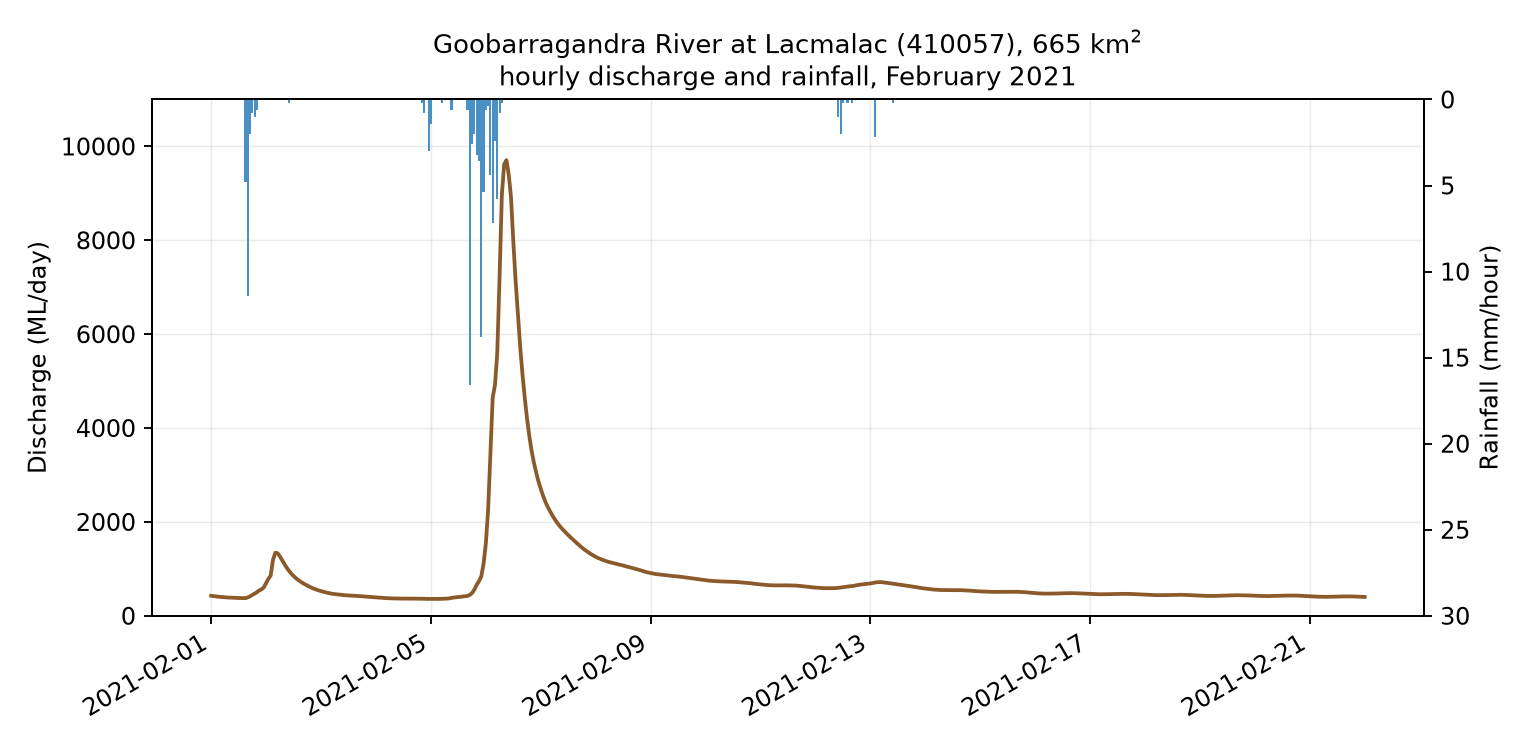
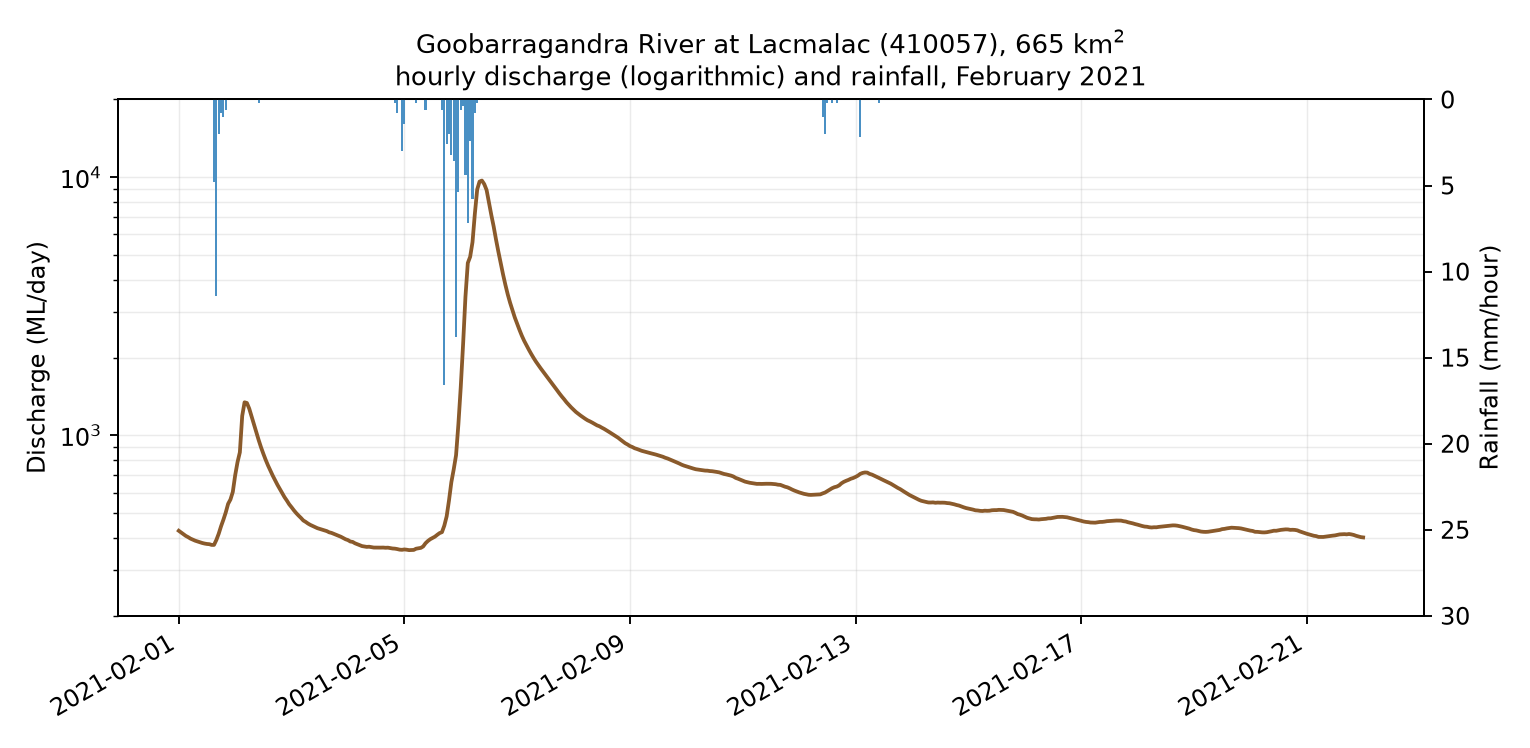
Plot the tutorial hydrograph on a logarithmic discharge axis
A log axis is the normal way to present a hydrograph, and the lecture says so:
on a linear axis one large peak compresses every other flow onto the x-axis and
the recession detail vanishes. On the log version of the Goobarragandra storm
the shape of the recession, the small precursor rise on 2 February and the minor
bump on 13 February are all legible, and none of them were before.

The separation figure in the answers stays linear, deliberately. Stormflow is
the area between the hydrograph and the baseflow line, and area under a
logarithmic curve is not proportional to volume; the straight-line separation is
also only straight on linear axes. The question now says this, so that nobody
tries to measure the volume off the log plot they have been handed.

diff --git a/slides/scripts/runoff_tutorial_figures.py b/slides/scripts/runoff_tutorial_figures.py
@@ -149,12 +149,27 @@ def new_water_fraction(delta_stream):
 # Figures
 # ---------------------------------------------------------------------------
 
-def _hydrograph_axes(ax, times, flow, rain):
-    """Draw the shared discharge line and inverted rainfall bars."""
+def _hydrograph_axes(ax, times, flow, rain, log=False):
+    """Draw the shared discharge line and inverted rainfall bars.
+
+    ``log`` puts discharge on a logarithmic axis, which is how a hydrograph is
+    normally presented: on a linear axis one large event flattens every normal
+    flow onto the x-axis and the recession detail disappears.
+
+    Do NOT use it for the separation figure. Stormflow is the **area** between
+    the hydrograph and the baseflow line, and area on a logarithmic axis is not
+    proportional to volume. The straight-line separation is also only a straight
+    line on linear axes.
+    """
     ax.plot(times, flow, color=C_FLOW, lw=1.6, zorder=3)
     ax.set_ylabel("Discharge (ML/day)")
-    ax.set_ylim(0, 11000)
-    ax.grid(alpha=0.25, lw=0.6)
+    if log:
+        ax.set_yscale("log")
+        ax.set_ylim(200, 20000)
+        ax.grid(alpha=0.25, lw=0.6, which="both")
+    else:
+        ax.set_ylim(0, 11000)
+        ax.grid(alpha=0.25, lw=0.6)
 
     top = ax.twinx()
     top.bar(times, rain, width=1 / 26, color=C_RAIN, zorder=2)
@@ -166,9 +181,10 @@ def _hydrograph_axes(ax, times, flow, rain):
 def figure_hydrograph(times, flow, rain):
     """A2 question figure: the storm, unannotated. The students do the work."""
     fig, ax = plt.subplots(figsize=(9.0, 4.4))
-    _hydrograph_axes(ax, times, flow, rain)
+    _hydrograph_axes(ax, times, flow, rain, log=True)
     ax.set_title(f"{GAUGE_NAME} ({GAUGE}), {AREA_KM2:.0f} km$^2$\n"
-                 "hourly discharge and rainfall, February 2021", fontsize=11)
+                 "hourly discharge (logarithmic) and rainfall, February 2021",
+                 fontsize=11)
     fig.autofmt_xdate()
     fig.tight_layout()
     path = os.path.join(IMAGE_DIR, "tutorial_runoff_hydrograph.png")
